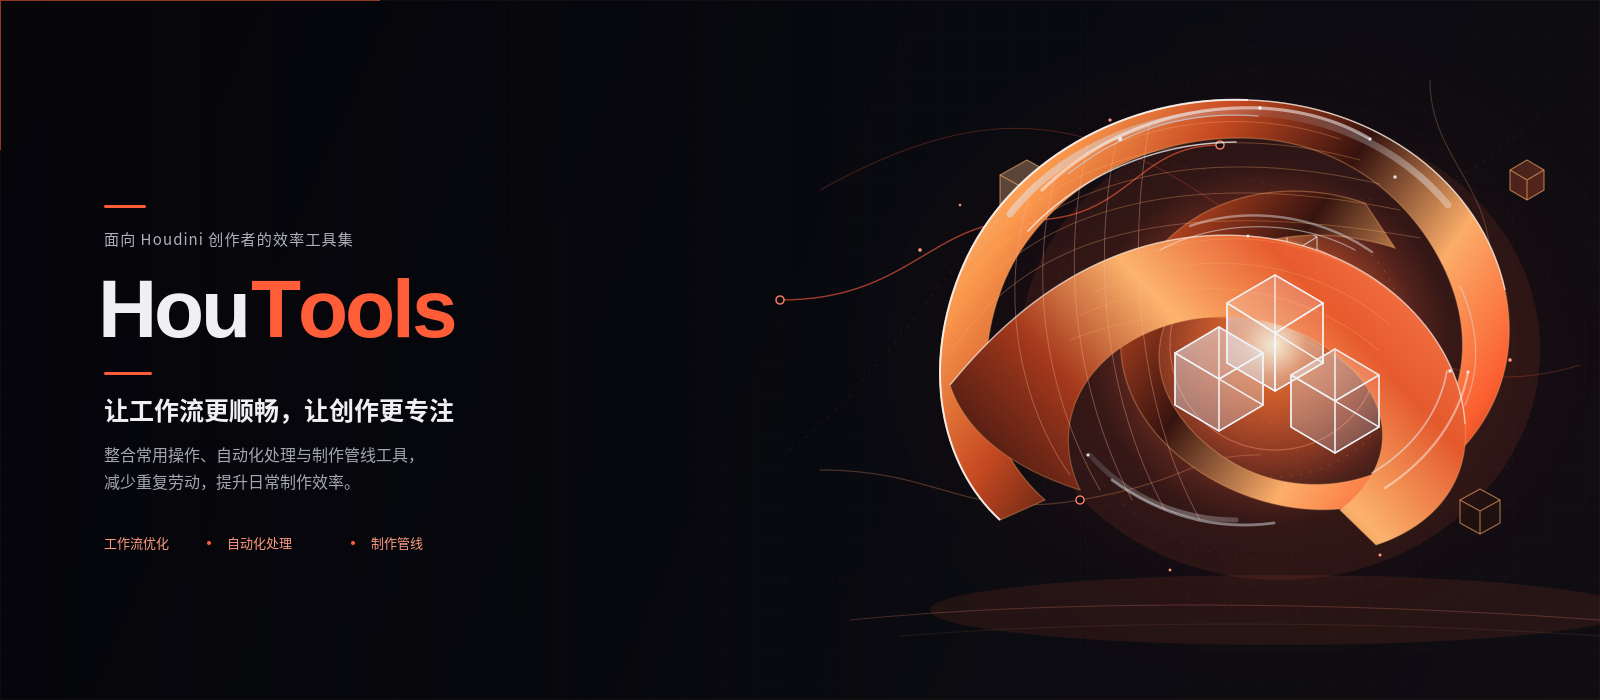
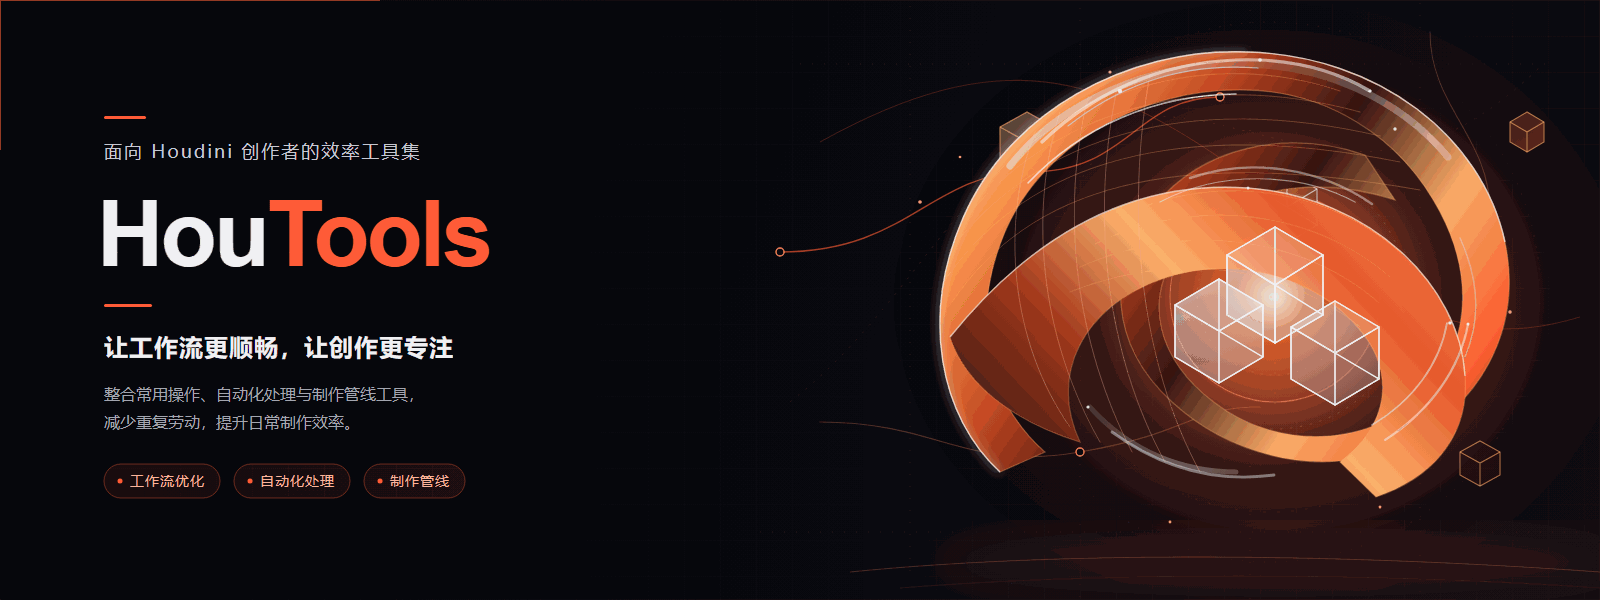
docs: 重设计 README 品牌头图（1600×600 紧凑画幅+文字层级重排），SVG 源稿入库

diff --git a/tests/test_about_sync.py b/tests/test_about_sync.py
@@ -98,6 +98,7 @@ PAGE_ONLY_SECTIONS = {"install", "dragdrop-import"}
 OTHER_CONSUMERS = {
     "brand.md": ("README.md", "AGENTS.md"),
     "brand/houtools-banner.png": ("README.md",),
+    "brand/houtools-banner.svg": ("AGENTS.md",),
 }
 
 

diff --git a/AGENTS.md b/AGENTS.md
@@ -37,7 +37,7 @@ root/
 ├── docs/
 │   ├── index.html               # About 离线使用手册（品牌 token / 钉钉进步体 woff2 / 真实截图，零外部资源）
 │   ├── brand.md                 # 品牌手册（token / 组件 / 图标 / 文案 do&don't / 验收）
-│   ├── brand/                   # README 品牌头图（用户提供的固定资产，1600×700 位图，换图需 bump README ?v=N）与字标（gen_brand_assets.py 生成）
+│   ├── brand/                   # README 品牌头图（1600×600 位图 + 配套源稿 brand/houtools-banner.svg，改图先改 SVG 再重渲染压缩，换图需 bump README ?v=N）与字标（gen_brand_assets.py 生成）
 │   ├── fonts/                   # DingTalk-JinBuTi.woff2（离线 @font-face）
 │   └── about_shots/             # 窗口截图（3 张离屏生成 + hdr.png 用户精修图固定保留）
 ├── dev-notes/                     # ★ 各功能实现细节与坑表（本文件表格巨行的拆分，改对应模块前必读；不入发行包）
@@ -66,7 +66,7 @@ root/
 | 粘贴中心（Paste Center） | `houtools/tools/paste_center.py` + `paste_center_absolute.py`/`paste_center_expressions.py` 薄入口 + OPmenu.xml 子菜单 | 右键目标节点在其正下方创建 transform 并接管显示/渲染输出（启用）：p=目标中心、t=源中心−目标中心（目标内容平移到源中心、枢轴落在原中心）；**仅 SOP 节点显示**（context 判 category 名 == "Sop"，与 `paste_center.is_sop_target` 双处同步，2026-11 用户指定；LOP/COP 映射工具侧保留、非 SOP 程序化调用黄字拒绝）——映射 `{Sop/Lop/Cop: "xform"}`（显示名都叫 Transform、内部类型名统一 xform、t/p 三分量，无头实测）；源解析懒 import 复用 paste_as_object_merge 的 `_source_items`（含三种剪贴板失效文案，点击时才加载防 reload 旧引用）；`src.errors()`/`target.errors()` **双预检**（hscriptExpression 出错静默返 0，求值双方都要拦）；**新建节点参数干净，无需 deleteAllKeyframes/PermissionError 兜底**（与 paste_bbox 的关键差异）；表达式模式 p=`centroid(目标)`、t=`centroid(源)−centroid(目标)`，路径 `relativePathTo` 同网络相对/跨层级绝对、显式 Hscript；摆位 gap 同 dragdrop 0.5；单 undo 槽 |
 | 外部拖放导入 .abc/.fbx/.usd* | `scripts/externaldragdrop.py` + `houtools/dragdrop.py` | 钩子被 `exec(<stdin>)` 执行（无 `__file__`、每次 drop 即时执行），逻辑全在 `houtools.dragdrop` 吃热加载；**`drop_accept` 必须全程兜底（裸抛异常=拖入文件被当 hip 文件打开）**；非网络编辑器落点/未接管层级一律 False 交还原生。**importFBX/alembicarchive/buildHierarchy/USD→Lop sublayer(filepath1) 细节与坑表 → `dev-notes/dragdrop.md`（改前必读）** |
 | 设置窗口（HouTools Settings） | `houtools/tools/houtools_settings.py` + `core/hotkeys.py`（快捷键逻辑） | 主菜单条目（替代原 `paste_hotkey_settings` 独立工具，已删除）：配置目录只读展示（含修改方法提示，`constants.settings_env_override()` 判定覆盖态）+ 可改键快捷键区（**`hotkeys.ASSIGNABLE` 登记表驱动渲染**，新增可改键只登记不动窗口；通用三函数 `hotkey_current_key`/`hotkey_apply_key`/`hotkey_reset_default`，按行捕获框+应用/恢复默认，共享 `_hint` 反馈；经 `window_manager` 单例；不注册 taskbar）；改键会话即时生效 + 配置目录 `hotkeys.json` 持久化 |
-| About 页面 | `houtools/tools/about_houtools.py` + `docs/index.html` + `docs/brand.md` | 主菜单 About HouTools → `os.startfile` 用默认浏览器打开离线使用手册（全局性条目，仅注册主菜单不进 NetworkViewMenu）；**品牌主题：墨黑+品牌橙+深绿蓝图网格，钉钉进步体 woff2 本地 @font-face，Hero = AI 主视觉背景图（`assets/hero.jpg`）+ 单列文字压左半暗部（2026-11 用户否决并移除右侧真实截图拼贴；about_shots 四张图仍被轮播引用、不回收）**；**主视觉图 `assets/hero.jpg`**（2026-11 用户提供 AI 生成：2208×960 / 2.3:1 / JPG q85 ≈274KB；**不预裁**——cover 随窗口自适应取带、`background-position: center 45%`，上层叠两层渐变：纵向底边溶进页面墨黑、横向压暗左侧文字列；换图约束：墨黑基底+品牌橙点缀、左 40% 留暗部压字、图内不烤文字、体积 ≤600KB）；**版式 = 文档站三栏（2026-11 重设计替换，章节正文逐字承接旧版、diff=0）**：吸顶顶栏（字标 + 快捷 nav + 版本胶囊 + GitHub/GitCode + 「下载最新版」）+ 左侧工具目录（分组 + 输入框筛选）+ 中间正文（轮播 + 章节平铺）+ 右侧本页目录（h2/h3 锚点 + scrollspy 高亮）；**外部链接只用仓库已验证 URL**——「论坛」= GitCode discussions、「下载最新版」= README 同款 zip 直链 `releases/download/latest/HouTools.zip`（重设计包带来的 htopus.com / releases 页形态已纠正）；**`:root` 变量集被测试锁死，页面不得新增自定义变量**（重设计稿漏定义的 `--accent-line` 已改 `var(--accent)`）；**零外部网络资源**（样式/JS 内联、系统字体栈、不引 CDN/在线字体/图片——无互联网工作站）；**首屏字标用固定 PNG `docs/brand/houtools-wordmark.png`（不依赖 woff2 加载，版本胶囊零位移、无黑闪）；其余品牌标题 woff2 `font-display:block`（`swap` 会回退字跳换）**，配图 `docs/about_shots/` 是**真实窗口截图**：3 张由 `tests/gen_about_shots.py` offscreen 离屏生成（QApplication 暗色 QPalette + 打桩演示数据；窗口 UI 改动后重跑该脚本），`hdr.png` 为用户精修图、登记在脚本 `CURATED_SHOTS` 中只校验在位、绝不重生成，smoke test 固化"无外部 http 引用"断言防退化；轮播 = 原生 JS（自动播放/hover 暂停/显式暂停按钮/箭头/圆点/触摸滑动；系统 `prefers-reduced-motion` 时默认不自动播放、提供 `aria-pressed` 状态），六张暂为内联 SVG 示意（Object Merge / 拖放导入 / 视窗截图 / 粘贴边界框 / 粘贴中心 / File Cache 转绝对，网络编辑器场景离屏截不了）；页面内容从 README 工具小节提炼，**条目名照抄工具内实际选项文字（如「打开DW」）**，改工具时 README 与 index.html 双处同步；**同步点由 `tests/test_about_sync.py` 断言**（版本号 ↔ `__version__`、`:root` ↔ `theme.TOKENS`、内联 SVG 色值 ↔ token、nav/章节/轮播锚点——**`check_anchors` 取页面第一个 `<nav>`（=左侧栏目录）：其 href 序列必须与章节顺序完全一致；顶栏快捷 nav 是 `<div>` 不参与；新增章节须同步维护 侧栏 / 右栏 TOC / h2-h3 锚点 三处**、三份菜单 XML 的 scriptItem ↔ 手册章节、本地资源引用与孤儿资源、离线约束与无障碍守卫）——发版、改 token、增删菜单项或换截图后必须跑；路径走 `constants.PROJECT_ROOT`（不依赖 cwd），页面缺失时状态栏 Error 提示不抛异常；**gen_about_shots 在首个 houtools import 前隔离 `HOUTOOLS_SETTINGS_DIR` 并打桩 `_SCAN_INDEX`（防演示快照覆盖真实 hdr_scan_index.json），截图缺失/保存失败退出非零** |
+| About 页面 | `houtools/tools/about_houtools.py` + `docs/index.html` + `docs/brand.md` | 主菜单 About HouTools → `os.startfile` 用默认浏览器打开离线使用手册（全局性条目，仅注册主菜单不进 NetworkViewMenu）；**品牌主题：墨黑+品牌橙+深绿蓝图网格，钉钉进步体 woff2 本地 @font-face，Hero = AI 主视觉背景图（`assets/hero.jpg`）+ 单列文字压左半暗部（2026-11 用户否决并移除右侧真实截图拼贴；about_shots 四张图仍被轮播引用、不回收）**；**主视觉图 `assets/hero.jpg`**（2026-11 用户提供 AI 生成：2208×960 / 2.3:1 / JPG q85 ≈274KB；**不预裁**——cover 随窗口自适应取带、`background-position: center 45%`；**叠加策略（2026-11-20 用户拍板「右侧零叠加」）**：桌面仅两处结构性渐变——横向左缘护字（.88 → .6@30% → **0@47%，文字列外不碰图**）+ 纵向底边窄渐隐（78% 起才介入，收橙轮廓灯与正文的硬切缝），图体（右半）保持原图干净零雾化；**≤900px 单列布局恢复整幅护底**（文字满宽压图，渐变须写在末尾媒体块防同优先级覆盖）；badge 自带 .72 暗 scrim、仓库玻璃卡自带底色——不依赖背景图内容；换图约束：墨黑基底+品牌橙点缀、左 40% 留暗部压字、图内不烤文字、体积 ≤600KB）；**版式 = 文档站三栏（2026-11 重设计替换，章节正文逐字承接旧版、diff=0）**：吸顶顶栏（字标 + 快捷 nav + 版本胶囊 + GitHub/GitCode + 「下载最新版」）+ 左侧工具目录（分组 + 输入框筛选）+ 中间正文（轮播 + 章节平铺）+ 右侧本页目录（h2/h3 锚点 + scrollspy 高亮）；**外部链接只用仓库已验证 URL**——「论坛」= GitCode discussions、「下载最新版」= README 同款 zip 直链 `releases/download/latest/HouTools.zip`（重设计包带来的 htopus.com / releases 页形态已纠正）；**`:root` 变量集被测试锁死，页面不得新增自定义变量**（重设计稿漏定义的 `--accent-line` 已改 `var(--accent)`）；**零外部网络资源**（样式/JS 内联、系统字体栈、不引 CDN/在线字体/图片——无互联网工作站）；**首屏字标用固定 PNG `docs/brand/houtools-wordmark.png`（不依赖 woff2 加载，版本胶囊零位移、无黑闪）；其余品牌标题 woff2 `font-display:block`（`swap` 会回退字跳换）**，配图 `docs/about_shots/` 是**真实窗口截图**：3 张由 `tests/gen_about_shots.py` offscreen 离屏生成（QApplication 暗色 QPalette + 打桩演示数据；窗口 UI 改动后重跑该脚本），`hdr.png` 为用户精修图、登记在脚本 `CURATED_SHOTS` 中只校验在位、绝不重生成，smoke test 固化"无外部 http 引用"断言防退化；轮播 = 原生 JS（自动播放/hover 暂停/显式暂停按钮/箭头/圆点/触摸滑动；系统 `prefers-reduced-motion` 时默认不自动播放、提供 `aria-pressed` 状态），六张暂为内联 SVG 示意（Object Merge / 拖放导入 / 视窗截图 / 粘贴边界框 / 粘贴中心 / File Cache 转绝对，网络编辑器场景离屏截不了）；页面内容从 README 工具小节提炼，**条目名照抄工具内实际选项文字（如「打开DW」）**，改工具时 README 与 index.html 双处同步；**同步点由 `tests/test_about_sync.py` 断言**（版本号 ↔ `__version__`、`:root` ↔ `theme.TOKENS`、内联 SVG 色值 ↔ token、nav/章节/轮播锚点——**`check_anchors` 取页面第一个 `<nav>`（=左侧栏目录）：其 href 序列必须与章节顺序完全一致；顶栏快捷 nav 是 `<div>` 不参与；新增章节须同步维护 侧栏 / 右栏 TOC / h2-h3 锚点 三处**、三份菜单 XML 的 scriptItem ↔ 手册章节、本地资源引用与孤儿资源、离线约束与无障碍守卫）——发版、改 token、增删菜单项或换截图后必须跑；路径走 `constants.PROJECT_ROOT`（不依赖 cwd），页面缺失时状态栏 Error 提示不抛异常；**gen_about_shots 在首个 houtools import 前隔离 `HOUTOOLS_SETTINGS_DIR` 并打桩 `_SCAN_INDEX`（防演示快照覆盖真实 hdr_scan_index.json），截图缺失/保存失败退出非零** |
 | 窗口单例 | `houtools/ui/window_manager.py` | `open_window(tool_id, factory)`；close_all 供 Reload 前调用。**close_all 只对 close() 接受的窗口 deleteLater；close() 返回 False 且未声明 `is_close_deferred()` 的窗口（如文档编辑器拒绝放弃草稿）不得 deleteLater、保留登记条目，close_all 返回 False，`reload_all` 据此中止重载**；docs.py 在 `_closing_all` 期直接拒绝关闭不弹模态；closeEvent 被 ignore 且窗口声明 `is_close_deferred()` 为真（如 videoseq 转换进行中）时跳过 deleteLater、窗口引用移入 `_closing` 集合防 GC 析构运行中的 QThread（Qt6 qFatal），由窗口在延迟关闭收尾时**自行 deleteLater**（destroyed 信号自动摘除集合条目）。**`_closing` 必须活过 Reload**：本模块会被 Reload Modules 重载，模块体重跑会把绑定换成新空集合、旧集合随之失去唯一外部根（运行中的延迟关闭窗口可被 GC 析构）——用 `try: _closing / except NameError: _closing = set()` 守卫（reload 在同一 module dict 里执行、已有名字可见，重载后沿用旧集合）；全仓模块级"运行中对象登记表"（automation `_LIVE_ENGINES`、HDR `_LIVE_THREADS`）同款守卫 |
 | 缩略图裁剪 | `houtools/recipelib/crop.py` | ThumbCropDialog 头像式框选（选框锁缩略图区比例 1:0.66），确认返回原图分辨率 QPixmap；静态图先弹裁剪再按**源图格式**存（`metadata.thumb_format_for_source`，换格式旧文件 `_clean_stale_thumbs` 清理）、GIF 跳过裁剪原样复制；**QPen 静默不可见坑/像素断言/裸 python 编解码插件坑 → `dev-notes/thumb-crop.md`（改前必读）** |
 | 截取缩略图（屏幕框选，多显示器） | `houtools/recipelib/capture.py` + browser `_snip_thumb` 系 | 多屏 SnipOverlay 会话（每屏一块遮罩铺冻结抓屏）：共享选框存**虚拟桌面坐标**、跨屏必须用 `globalPosition()`（Qt 隐式抓取下本地坐标不可信）、确认按屏 DPR 换算回物理像素（跨屏重采样拼合）；交互对齐 ThumbCropDialog + ✓/✗ 按钮条（Enter/Esc 同语义）；收尾先压 `_need_reload` 再 show、先落库再刷 UI；确认存 JPEG q90（用户指定）。**全表 → `dev-notes/thumb-snip.md`（改前必读）** |

diff --git a/README.md b/README.md
@@ -1,4 +1,4 @@
-![HouTools 品牌头图](docs/brand/houtools-banner.png?v=3)
+![HouTools 品牌头图](docs/brand/houtools-banner.png?v=4)
 
 ![Houdini 21/22](https://img.shields.io/badge/Houdini-21.0%20%7C%2022.0-FF4747?logo=sidefx&logoColor=white) ![Python 3.11/3.13](https://img.shields.io/badge/Python-3.11%20%7C%203.13-3776AB?logo=python&logoColor=white) ![PySide6](https://img.shields.io/badge/PySide6-6.8.3-41CD52?logo=qt&logoColor=white) ![Platform Windows](https://img.shields.io/badge/Platform-Windows-0078D6?logo=windows11&logoColor=white) ![License GPL-3.0](https://img.shields.io/badge/License-GPL--3.0-blue?logo=gnu&logoColor=white)
 
